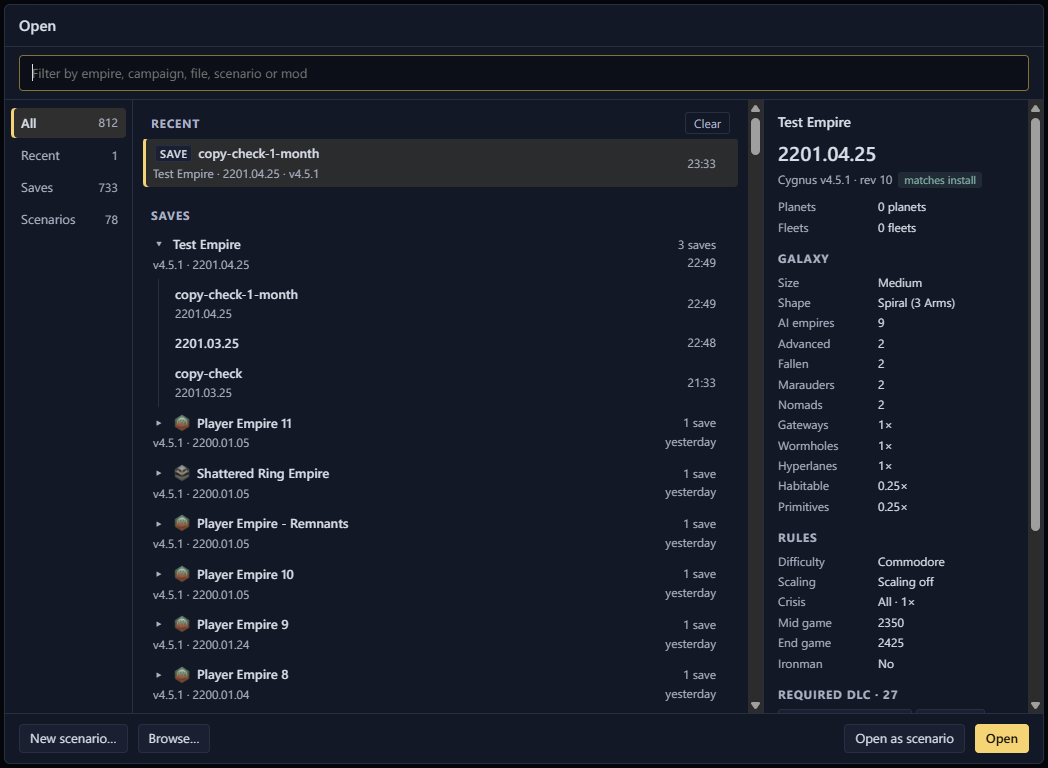
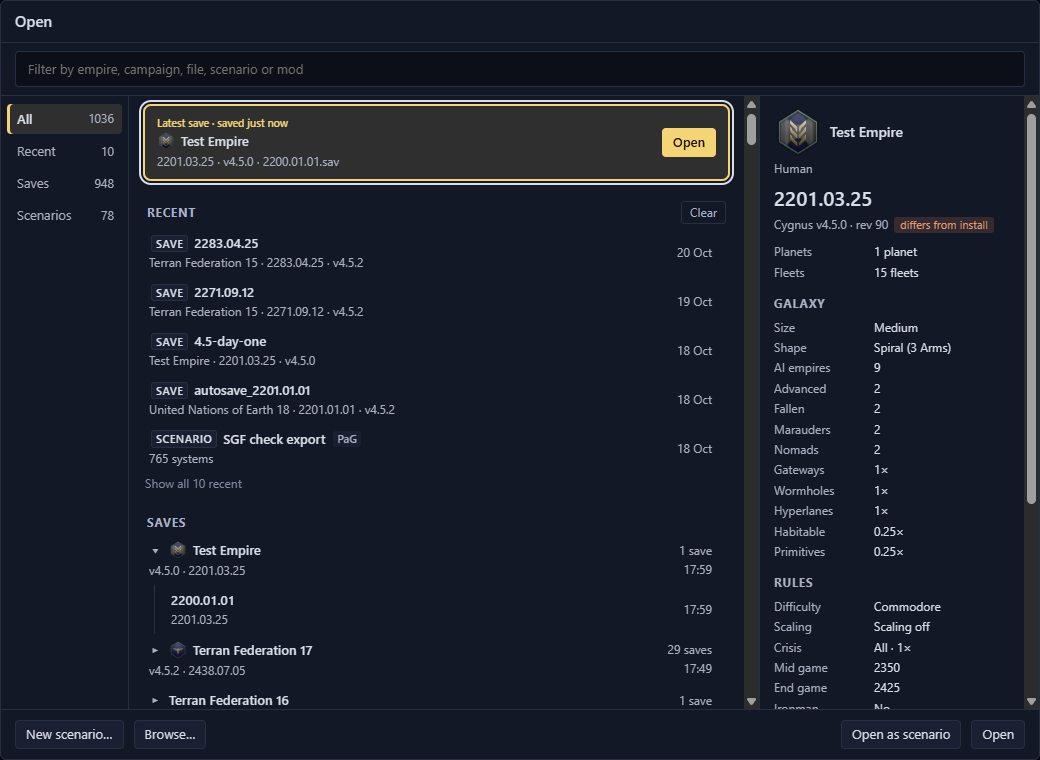
Read the save list again on File > Open and window focus
With no save open the Open screen is the start screen and stays mounted,
so it never read the saves the game wrote afterwards. File > Open and the
window gaining focus now read them again. The Open screen shot is
retaken with the latest save card.

Changed region(s): [[0.0, 0.0, 1.0, 1.0], [0.6462, 0.2724, 0.7077, 0.3632]]

diff --git a/app/src/store/openScreenStore.test.ts b/app/src/store/openScreenStore.test.ts
@@ -7,10 +7,33 @@ import { TERRAN, VOID, campaignSave, modScenario } from "../test/builders";
 vi.mock("../api/ipc");
 vi.mock("../api/events");
 
+const focus = vi.hoisted(() => {
+  const state = {
+    handler: null as ((e: { payload: boolean }) => void) | null,
+    unlisten: vi.fn(),
+  };
+  return state;
+});
+vi.mock("@tauri-apps/api/window", () => ({
+  getCurrentWindow: () => ({
+    onFocusChanged: (handler: (e: { payload: boolean }) => void) => {
+      focus.handler = handler;
+      return Promise.resolve(focus.unlisten);
+    },
+  }),
+}));
+
 import { flush } from "../test/flush";
 import { mockedIpc } from "../test/ipc";
 import { footerOpens, navigableRows, selectedRow, type Row } from "../lib/openRows";
-import { detailsKey, useOpenScreenStore } from "./openScreenStore";
+import { useFileSessionStore } from "./fileSessionStore";
+import { useLayoutStore } from "./layoutStore";
+import {
+  detailsKey,
+  showOpenScreen,
+  useOpenScreenStore,
+  watchWindowFocus,
+} from "./openScreenStore";
 import {
   RECENT,
   armScreen,
@@ -311,6 +334,41 @@ describe("latest save", () => {
     const target = footerOpens(row, screen()).open!;
     await screen().open(target.path, target.mode);
     expect(mockedIpc.openDocument.mock.lastCall?.[0]).toBe(`${VOID.dir}/autosave_2231.01.01.sav`);
+  });
+});
+
+describe("reading the lists again while the screen shows", () => {
+  it("reads on File → Open… while the start screen or the dialog shows, and opens the dialog otherwise", async () => {
+    await screen().load();
+    showOpenScreen();
+    await flush();
+    expect(mockedIpc.listCampaigns).toHaveBeenCalledTimes(2);
+
+    useFileSessionStore.setState({ status: "ready" });
+    showOpenScreen();
+    await flush();
+    expect(useLayoutStore.getState().openDialog).toBe(true);
+    expect(mockedIpc.listCampaigns).toHaveBeenCalledTimes(2);
+
+    showOpenScreen();
+    await flush();
+    expect(mockedIpc.listCampaigns).toHaveBeenCalledTimes(3);
+  });
+
+  it("reads each time the window regains focus while watched, and stops when unwatched", async () => {
+    await screen().load();
+    const unwatch = watchWindowFocus();
+
+    focus.handler?.({ payload: false });
+    await flush();
+    expect(mockedIpc.listCampaigns).toHaveBeenCalledTimes(1);
+    focus.handler?.({ payload: true });
+    await flush();
+    expect(mockedIpc.listCampaigns).toHaveBeenCalledTimes(2);
+
+    unwatch();
+    await flush();
+    expect(focus.unlisten).toHaveBeenCalledOnce();
   });
 });
 

diff --git a/app/src/panels/chrome/FileMenu.tsx b/app/src/panels/chrome/FileMenu.tsx
@@ -8,7 +8,7 @@ import { closeDocument, save, saveAs } from "../../store/commands";
 import { useFileSessionStore } from "../../store/fileSessionStore";
 import { useGameDataStore } from "../../store/gameDataStore";
 import { useLayoutStore } from "../../store/layoutStore";
-import { useOpenScreenStore } from "../../store/openScreenStore";
+import { showOpenScreen, useOpenScreenStore } from "../../store/openScreenStore";
 import { usePaintModStore } from "../../store/paintModStore";
 import { usePrepareStore } from "../../store/prepareStore";
 import { useRecentsStore, type RecentDoc } from "../../store/recentsStore";
@@ -65,7 +65,6 @@ export function FileMenuItems({ dismiss }: { dismiss: () => void }) {
   const saveIntoPaintMod = useFileSessionStore((s) => s.saveIntoPaintMod);
   const modKnown = usePaintModStore((s) => s.known);
   const paintDir = usePaintModStore((s) => s.paintMod?.scenarios_dir ?? null);
-  const showOpenDialog = useLayoutStore((s) => s.showOpenDialog);
   const showScenarioDialog = useLayoutStore((s) => s.showScenarioDialog);
   const revealPrepare = usePrepareStore((s) => s.reveal);
   const open = status === "ready";
@@ -85,7 +84,7 @@ export function FileMenuItems({ dismiss }: { dismiss: () => void }) {
         label="Open…"
         shortcut={shortcutLabel("open")}
         dismiss={dismiss}
-        onClick={showOpenDialog}
+        onClick={showOpenScreen}
       />
       <MenuItem label="Reload from disk" disabled={!open} dismiss={dismiss} onClick={reload} />
       <div className="menu-rule" />

diff --git a/app/src/store/openScreenStore.ts b/app/src/store/openScreenStore.ts
@@ -1,3 +1,4 @@
+import { getCurrentWindow } from "@tauri-apps/api/window";
 import { create } from "zustand";
 import * as ipc from "../api/ipc";
 import type { CampaignListing } from "../generated/CampaignListing";
@@ -85,6 +86,27 @@ export function resetOpenScreen(): void {
   listedDirs.clear();
   readingDetails.clear();
   useOpenScreenStore.setState({ ...INITIAL });
+}
+
+/**
+ * File → Open…: the dialog over an open document, or, while the Open screen already shows as
+ * the start screen or the dialog, its lists read again.
+ */
+export function showOpenScreen(): void {
+  const layout = useLayoutStore.getState();
+  if (useFileSessionStore.getState().status === "ready" && !layout.openDialog) {
+    layout.showOpenDialog();
+    return;
+  }
+  void useOpenScreenStore.getState().load();
+}
+
+/** Reads the lists again each time the window regains focus, as after the game saved; returns the stop. */
+export function watchWindowFocus(): () => void {
+  const unlisten = getCurrentWindow().onFocusChanged(({ payload: focused }) => {
+    if (focused) void useOpenScreenStore.getState().load();
+  });
+  return () => void unlisten.then((stop) => stop());
 }
 
 /** What a refused open says when the session named no failure of its own. */

diff --git a/app/src/store/commands.ts b/app/src/store/commands.ts
@@ -32,7 +32,7 @@ import { useInitializerBrowserStore } from "./initializerBrowserStore";
 import { refKey, useInspectorStore } from "./inspectorStore";
 import { useLayoutStore } from "./layoutStore";
 import { useMapChromeStore } from "./mapChromeStore";
-import { useOpenScreenStore } from "./openScreenStore";
+import { showOpenScreen, useOpenScreenStore } from "./openScreenStore";
 import { bodiesCanCopy, pastesInto, pointerPlacement, usePlanetMoveStore } from "./planetMoveStore";
 import { canEnterSystem, currentBarMode, sceneSystem, useSceneStore } from "./sceneStore";
 import { nudgeBody } from "./systemGeometry";
@@ -346,7 +346,7 @@ export function run(action: KeyAction, inInput: boolean, effects: CommandEffects
   const layout = useLayoutStore.getState();
   switch (action) {
     case "open":
-      if (session.status === "ready") useLayoutStore.getState().showOpenDialog();
+      showOpenScreen();
       return true;
     case "browse":
       if (session.status !== "loading" && useGameDataStore.getState().startup !== "setup") {

diff --git a/app/src/panels/file/OpenSave.tsx b/app/src/panels/file/OpenSave.tsx
@@ -21,7 +21,11 @@ import {
   type Row,
   type Tab,
 } from "../../lib/openRows";
-import { useOpenScreenStore, type OpenScreenState } from "../../store/openScreenStore";
+import {
+  useOpenScreenStore,
+  watchWindowFocus,
+  type OpenScreenState,
+} from "../../store/openScreenStore";
 import { useRecentsStore } from "../../store/recentsStore";
 import { Dialog } from "../Dialog";
 import { OpenDetails } from "./OpenDetails";
@@ -72,6 +76,7 @@ export function OpenSave({ modal = false, footnote }: { modal?: boolean; footnot
 
   useEffect(() => {
     void useOpenScreenStore.getState().load();
+    return watchWindowFocus();
   }, []);
 
   useEffect(() => {

diff --git a/guide/images/SHOTS.md b/guide/images/SHOTS.md
@@ -45,7 +45,7 @@ The Issues, Changes and added-system shots show those edits.
 
 | File | Page | Shows | How to take it |
 | --- | --- | --- | --- |
-| `start/open-screen.png` | `start/open.md` | The Open screen on All, with the latest save card, Recent, Saves and the details pane | Needs a retake for the latest save card. File → Open… with a copy of the 4.5 save in the game's save folder, written last so it is the newest save. The latest save card shows it, selected, and Recent leaves it out. The list shows whatever saves the machine has. |
+| `start/open-screen.png` | `start/open.md` | The Open screen on All, with the latest save card, Recent, Saves and the details pane | File → Open… with a copy of the 4.5 save in the game's save folder, written last so it is the newest save. The latest save card shows it, selected, and Recent leaves it out. The list shows whatever saves the machine has. |
 | `start/open-mode.png` | `start/open.md`, `scenario/paint-a-galaxy.md` | "Open 4.5-day-one.sav" with Edit as save and Edit as scenario | Double-click the 4.5 save on the Open screen. Hover Edit as scenario so its checkbox shows. |
 | `start/window.png` | `start/the-window.md` | The whole window, numbered by the page through `<Annotated>` | The 4.5 save with Soukias #576 selected, Tilt at 0°. |
 | `start/file-menu.png` | `start/the-window.md` | The File menu with Open recent | Open the File menu with the Paint a Galaxy scenario open, after opening 4.4-early, 4.5-day-one and a copy of the 4.5 save. |

diff --git a/changelog.d/marker-modifiers.md b/changelog.d/marker-modifiers.md
@@ -11,8 +11,8 @@
   longer be built.
 - A megastructure a construction ship was still starting when you moved
   its planet is now built over the planet, not where the planet used to be.
-- The Open screen lists saves the game wrote while a save was open in the
-  editor.
+- The Open screen lists saves the game wrote while Galaxy Forge was open.
+  It reads them again when you switch back to Galaxy Forge.
 - The Open screen's filter finds a save by its file name.
 - The undo list and the Issues tab name systems as the game does, such as
   Kaz rather than Kazam system.
